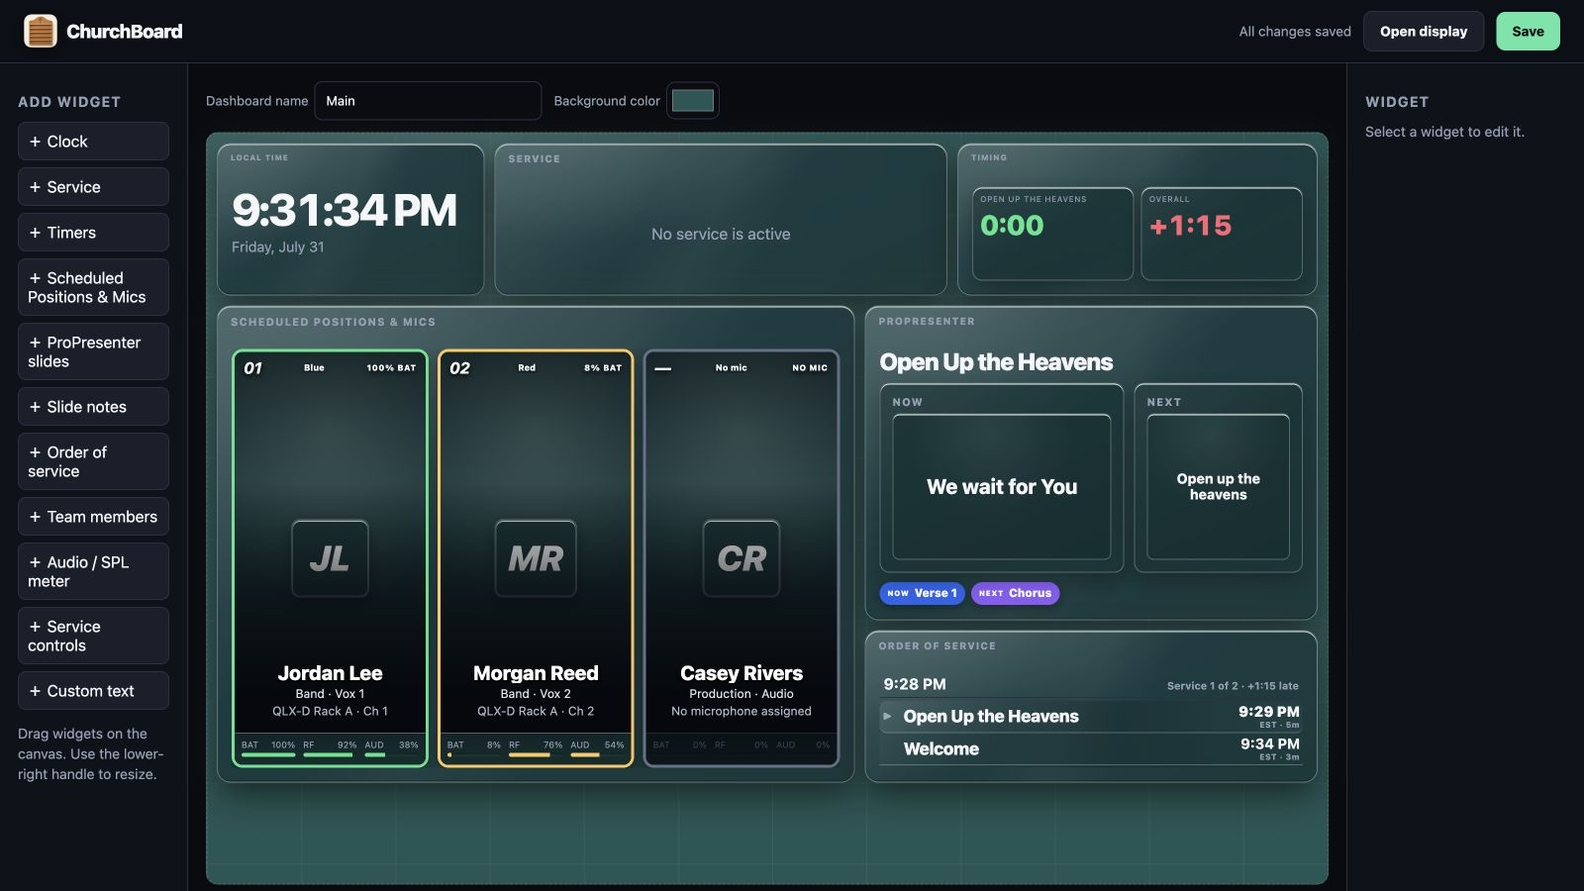
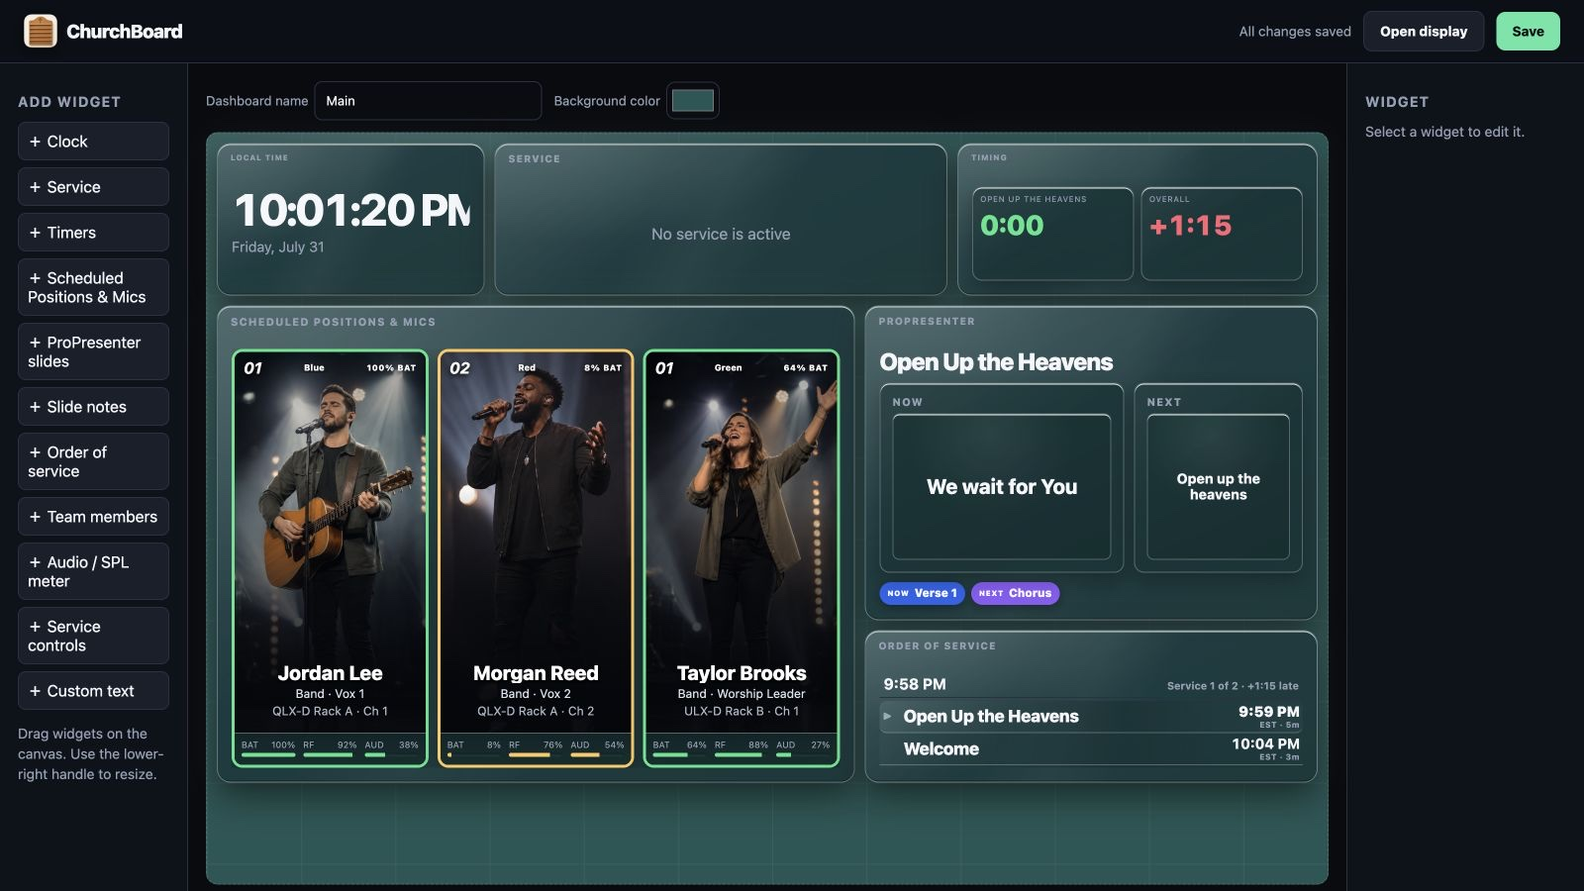
Add demo portraits and release legal notices

Changed region(s): [[0.125, 0.3733, 0.5312, 0.7156], [0.4062, 0.7467, 0.5312, 0.8711], [0.125, 0.2178, 0.3125, 0.28]]

diff --git a/app/static/editor.js b/app/static/editor.js
@@ -10,7 +10,7 @@ async function load(){
   document.querySelector("#dashboard-name").value=dashboard.name;dashboard.background_color=applyDashboardAppearance(grid,dashboard.background_color);document.querySelector("#dashboard-background-color").value=dashboard.background_color;document.querySelector("#preview-link").href=`/display/${dashboard.slug}`;
   grid.style.setProperty("--columns",dashboard.columns);grid.style.setProperty("--row-height",`${dashboard.row_height}px`);render();
 }
-function previewState(){const people=[{id:"person-1",name:"Jordan Lee",position:"Vox 1",position_key:"band::vox 1",team_id:"band",team_name:"Band",photo:""},{id:"person-2",name:"Morgan Reed",position:"Vox 2",position_key:"band::vox 2",team_id:"band",team_name:"Band",photo:""},{id:"person-3",name:"Casey Rivers",position:"Audio",position_key:"production::audio",team_id:"production",team_name:"Production",photo:""}],items=[{id:"song-1",title:"Open Up the Heavens",length:300,starts_after:0,leader:"Jordan Lee"},{id:"welcome",title:"Welcome",length:180,starts_after:300,leader:"Morgan Reed"},{id:"song-2",title:"Build My Life",length:300,starts_after:480}],serviceStart=new Date(Date.now()-180000).toISOString(),timing={state:"running",current_item:items[0],service_start_at:serviceStart,service_time_id:"preview-time",service_time_index:1,service_time_count:2,service_items:items,overall_delta:75};return{timezone:Intl.DateTimeFormat().resolvedOptions().timeZone,service:{title:"Sunday Worship",dates:"Dashboard preview",starts_at:serviceStart,items},timing,people,mics:[{id:"preview-1",receiver:"QLX-D Rack A",channel:1,name:"Blue",battery_percent:100,rf:92,audio:38,online:true,errors:[],assignment:people[0]},{id:"preview-2",receiver:"QLX-D Rack A",channel:2,name:"Red",battery_percent:8,rf:76,audio:54,online:true,errors:[],assignment:people[1]}],propresenter:{title:"Open Up the Heavens",current:{text:"We wait for You",part:"Verse 1",color:"#2563eb",index:2,total:8},next:{text:"Open up the heavens",part:"Chorus",color:"#8b5cf6",index:3,total:8}}}}
+function previewState(){const people=[{id:"person-1",name:"Jordan Lee",position:"Vox 1",position_key:"band::vox 1",team_id:"band",team_name:"Band",photo:"/static/demo-people/jordan-lee.jpg"},{id:"person-2",name:"Morgan Reed",position:"Vox 2",position_key:"band::vox 2",team_id:"band",team_name:"Band",photo:"/static/demo-people/morgan-reed.jpg"},{id:"person-3",name:"Taylor Brooks",position:"Worship Leader",position_key:"band::worship leader",team_id:"band",team_name:"Band",photo:"/static/demo-people/taylor-brooks.jpg"}],items=[{id:"song-1",title:"Open Up the Heavens",length:300,starts_after:0,leader:"Jordan Lee"},{id:"welcome",title:"Welcome",length:180,starts_after:300,leader:"Morgan Reed"},{id:"song-2",title:"Build My Life",length:300,starts_after:480}],serviceStart=new Date(Date.now()-180000).toISOString(),timing={state:"running",current_item:items[0],service_start_at:serviceStart,service_time_id:"preview-time",service_time_index:1,service_time_count:2,service_items:items,overall_delta:75};return{timezone:Intl.DateTimeFormat().resolvedOptions().timeZone,service:{title:"Sunday Worship",dates:"Dashboard preview",starts_at:serviceStart,items},timing,people,mics:[{id:"preview-1",receiver:"QLX-D Rack A",channel:1,name:"Blue",battery_percent:100,rf:92,audio:38,online:true,errors:[],assignment:people[0]},{id:"preview-2",receiver:"QLX-D Rack A",channel:2,name:"Red",battery_percent:8,rf:76,audio:54,online:true,errors:[],assignment:people[1]},{id:"preview-3",receiver:"ULX-D Rack B",channel:1,name:"Green",battery_percent:64,rf:88,audio:27,online:true,errors:[],assignment:people[2]}],propresenter:{title:"Open Up the Heavens",current:{text:"We wait for You",part:"Verse 1",color:"#2563eb",index:2,total:8},next:{text:"Open up the heavens",part:"Chorus",color:"#8b5cf6",index:3,total:8}}}}
 function render(){
   grid.innerHTML=dashboard.widgets.map(widget=>widgetMarkup(widget,previewState())).join("");
   grid.querySelectorAll(".widget").forEach(element=>{const widget=find(element.dataset.widget);element.classList.toggle("selected",selected===widget.id);element.insertAdjacentHTML("beforeend",'<span class="resize-handle"></span>');element.addEventListener("pointerdown",event=>beginPointer(event,widget,event.target.classList.contains("resize-handle")));element.addEventListener("click",()=>select(widget.id))});tickClocks();enhanceDynamicContent(grid);

diff --git a/packaging/collect_licenses.py b/packaging/collect_licenses.py
@@ -1,0 +1,59 @@
+"""Collect license files for the exact Python distributions in a release build."""
+
+from __future__ import annotations
+
+import importlib.metadata
+import re
+import shutil
+from pathlib import Path
+
+
+PROJECT = Path(__file__).resolve().parents[1]
+OUTPUT = PROJECT / "build" / "legal" / "third-party"
+LICENSE_NAMES = re.compile(r"^(license|licence|copying|notice)([._-].*)?$", re.IGNORECASE)
+
+
+def safe_name(value: str) -> str:
+    return re.sub(r"[^A-Za-z0-9._+-]+", "-", value).strip("-") or "unknown"
+
+
+def collect(output: Path = OUTPUT) -> list[str]:
+    if output.exists():
+        shutil.rmtree(output)
+    output.mkdir(parents=True, exist_ok=True)
+    packages: list[str] = []
+    for distribution in sorted(importlib.metadata.distributions(), key=lambda item: (item.metadata.get("Name") or "").casefold()):
+        name = distribution.metadata.get("Name") or "unknown"
+        version = distribution.version
+        destination = output / f"{safe_name(name)}-{safe_name(version)}"
+        copied = 0
+        for entry in distribution.files or []:
+            parts = [part.casefold() for part in Path(str(entry)).parts]
+            filename = Path(str(entry)).name
+            in_distribution_metadata = any(part.endswith(".dist-info") for part in parts)
+            if not in_distribution_metadata or ("licenses" not in parts and not LICENSE_NAMES.match(filename)):
+                continue
+            source = Path(distribution.locate_file(entry))
+            if not source.is_file():
+                continue
+            destination.mkdir(parents=True, exist_ok=True)
+            target = destination / safe_name("-".join(Path(str(entry)).parts[-3:]))
+            shutil.copy2(source, target)
+            copied += 1
+        expression = distribution.metadata.get("License-Expression") or distribution.metadata.get("License") or "See bundled notice"
+        if copied:
+            (destination / "PACKAGE.txt").write_text(
+                f"Name: {name}\nVersion: {version}\nLicense: {expression}\n",
+                encoding="utf-8",
+            )
+            packages.append(f"- {name} {version} — {expression}")
+    (output / "README.md").write_text(
+        "# Collected dependency licenses\n\nGenerated from the release build environment.\n\n" + "\n".join(packages) + "\n",
+        encoding="utf-8",
+    )
+    return packages
+
+
+if __name__ == "__main__":
+    collected = collect()
+    print(f"Collected license notices for {len(collected)} distributions in {OUTPUT}")

diff --git a/app/services/runtime.py b/app/services/runtime.py
@@ -443,9 +443,9 @@ class RuntimeService:
     @staticmethod
     def demo_state(now: datetime | None = None) -> dict[str, Any]:
         people = [
-            {"id": "1", "name": "Jordan Lee", "position": "Vox 1", "position_key": "band::vox 1", "team_id": "band", "team_name": "Band", "photo": "", "status": "Confirmed"},
-            {"id": "2", "name": "Morgan Reed", "position": "Vox 2", "position_key": "band::vox 2", "team_id": "band", "team_name": "Band", "photo": "", "status": "Confirmed"},
-            {"id": "3", "name": "Taylor Brooks", "position": "Worship Leader", "position_key": "band::worship leader", "team_id": "band", "team_name": "Band", "photo": "", "status": "Confirmed"},
+            {"id": "1", "name": "Jordan Lee", "position": "Vox 1", "position_key": "band::vox 1", "team_id": "band", "team_name": "Band", "photo": "/static/demo-people/jordan-lee.jpg", "status": "Confirmed"},
+            {"id": "2", "name": "Morgan Reed", "position": "Vox 2", "position_key": "band::vox 2", "team_id": "band", "team_name": "Band", "photo": "/static/demo-people/morgan-reed.jpg", "status": "Confirmed"},
+            {"id": "3", "name": "Taylor Brooks", "position": "Worship Leader", "position_key": "band::worship leader", "team_id": "band", "team_name": "Band", "photo": "/static/demo-people/taylor-brooks.jpg", "status": "Confirmed"},
         ]
         items = [
             {"id": "1", "title": "Welcome", "length": 180, "starts_after": 0, "notes": [], "leader": "Morgan Reed"},

diff --git a/tests/test_legal.py b/tests/test_legal.py
@@ -1,0 +1,29 @@
+from __future__ import annotations
+
+import importlib.util
+import tempfile
+import unittest
+from pathlib import Path
+
+
+PROJECT = Path(__file__).resolve().parents[1]
+
+
+class LegalPackagingTests(unittest.TestCase):
+    def test_dependency_license_collector_only_copies_notice_files(self):
+        spec = importlib.util.spec_from_file_location(
+            "churchboard_collect_licenses",
+            PROJECT / "packaging" / "collect_licenses.py",
+        )
+        module = importlib.util.module_from_spec(spec)
+        assert spec.loader is not None
+        spec.loader.exec_module(module)
+
+        with tempfile.TemporaryDirectory() as directory:
+            output = Path(directory) / "third-party"
+            packages = module.collect(output)
+            self.assertTrue(packages)
+            self.assertTrue((output / "README.md").is_file())
+            self.assertTrue(any(path.name == "PACKAGE.txt" for path in output.rglob("PACKAGE.txt")))
+            forbidden = {".py", ".pyc", ".so", ".dylib", ".dll", ".exe"}
+            self.assertFalse([path for path in output.rglob("*") if path.is_file() and path.suffix.casefold() in forbidden])

diff --git a/tests/test_api.py b/tests/test_api.py
@@ -85,6 +85,11 @@ class ApiTests(unittest.TestCase):
     def test_runtime_and_manual_service_selection(self):
         runtime = self.client.get("/api/runtime").json()
         self.assertEqual(runtime["service"]["id"], "demo")
+        self.assertTrue(all(person["photo"].startswith("/static/demo-people/") for person in runtime["people"]))
+        for filename in ("jordan-lee.jpg", "morgan-reed.jpg", "taylor-brooks.jpg"):
+            photo = self.client.get(f"/static/demo-people/{filename}")
+            self.assertEqual(photo.status_code, 200)
+            self.assertEqual(photo.headers["content-type"], "image/jpeg")
         response = self.client.put("/api/active-plan", json={"id": "demo", "service_type_id": "demo"})
         self.assertEqual(response.status_code, 200)
         self.assertEqual(response.json()["manual_plan"]["id"], "demo")

diff --git a/app/version.py b/app/version.py
@@ -1,3 +1,3 @@
 """ChurchBoard release version."""
 
-__version__ = "0.1.9"
+__version__ = "0.1.10"

diff --git a/README.md b/README.md
@@ -32,17 +32,17 @@ Choose your computer and click its download link:
 
 | Your computer | Download |
 | --- | --- |
-| **Windows 10 or 11** | **[Download the Windows installer (.exe)](https://github.com/wtapper89/ChurchBoard/releases/latest/download/ChurchBoard-0.1.9-Windows-x64-Setup.exe)** |
-| **Mac with Apple silicon** — M1, M2, M3, M4, or newer | **[Download the Apple silicon Mac disk image (.dmg)](https://github.com/wtapper89/ChurchBoard/releases/latest/download/ChurchBoard-0.1.9-macOS-arm64.dmg)** |
-| **Mac with an Intel processor** | **[Download the Intel Mac disk image (.dmg)](https://github.com/wtapper89/ChurchBoard/releases/latest/download/ChurchBoard-0.1.9-macOS-x86_64.dmg)** |
-| **Ubuntu or Debian Linux** | **[Download the Linux installer (.deb)](https://github.com/wtapper89/ChurchBoard/releases/latest/download/ChurchBoard-0.1.9-Linux-amd64.deb)** |
-| **Other 64-bit desktop Linux** | **[Download the portable Linux package (.tar.gz)](https://github.com/wtapper89/ChurchBoard/releases/latest/download/ChurchBoard-0.1.9-Linux-x86_64.tar.gz)** |
+| **Windows 10 or 11** | **[Download the Windows installer (.exe)](https://github.com/wtapper89/ChurchBoard/releases/latest/download/ChurchBoard-0.1.10-Windows-x64-Setup.exe)** |
+| **Mac with Apple silicon** — M1, M2, M3, M4, or newer | **[Download the Apple silicon Mac disk image (.dmg)](https://github.com/wtapper89/ChurchBoard/releases/latest/download/ChurchBoard-0.1.10-macOS-arm64.dmg)** |
+| **Mac with an Intel processor** | **[Download the Intel Mac disk image (.dmg)](https://github.com/wtapper89/ChurchBoard/releases/latest/download/ChurchBoard-0.1.10-macOS-x86_64.dmg)** |
+| **Ubuntu or Debian Linux** | **[Download the Linux installer (.deb)](https://github.com/wtapper89/ChurchBoard/releases/latest/download/ChurchBoard-0.1.10-Linux-amd64.deb)** |
+| **Other 64-bit desktop Linux** | **[Download the portable Linux package (.tar.gz)](https://github.com/wtapper89/ChurchBoard/releases/latest/download/ChurchBoard-0.1.10-Linux-x86_64.tar.gz)** |
 
 Not sure which Mac you have? Choose **Apple menu → About This Mac**. If it says **Chip**, use Apple silicon. If it says **Processor**, use Intel.
 
 **Raspberry Pi:** jump to the [one-command Raspberry Pi installer](#raspberry-pi).
 
-[View all v0.1.9 downloads and release notes](https://github.com/wtapper89/ChurchBoard/releases/tag/v0.1.9)
+[View all v0.1.10 downloads and release notes](https://github.com/wtapper89/ChurchBoard/releases/tag/v0.1.10)
 
 ## Install
 
@@ -79,6 +79,14 @@ See [Configuration](docs/CONFIGURATION.md) for Planning Center personal-access-t
 Each dashboard has a stable URL. Add widgets from the palette, drag and resize them on the canvas, then configure the selected widget in the inspector. Text, cards, photos, and status displays scale with their widget. The display hamburger includes an **Edit** action beside every board, and **Open display** in the editor reuses the current tab.
 
 ![ChurchBoard WYSIWYG dashboard editor](docs/screenshots/dashboard-editor.jpg)
+
+## Credits, licenses, and legal
+
+ChurchBoard's visual microphone-monitoring direction was inspired by [Micboard](https://micboard.io/) by Karl Swanson, an independent MIT-licensed project for network-enabled Shure devices. The initial cross-platform dashboard concept also drew inspiration from [NewsTalentMonitorPlus](https://github.com/wtapper89/NewsTalentMonitorPlus). ChurchBoard is a separate implementation and does not bundle either project's code or assets.
+
+The people shown in demonstration mode and documentation are AI-generated fictional samples, not real team members. ChurchBoard is independently developed and is not affiliated with or endorsed by Planning Center, Shure, Renewed Vision/ProPresenter, Micboard, Apple, Microsoft, or Raspberry Pi.
+
+See the [MIT License](LICENSE), [legal and trademark notices](LEGAL.md), [third-party dependency notices](THIRD_PARTY_NOTICES.md), and [security guidance](SECURITY.md).
 
 ## Local development
 

diff --git a/LEGAL.md b/LEGAL.md
@@ -1,0 +1,33 @@
+# ChurchBoard legal information
+
+This document is a practical project notice, not legal advice.
+
+## License and ownership
+
+ChurchBoard is distributed under the [MIT License](LICENSE). Third-party components retain their own licenses and copyright notices; see [Third-party notices](THIRD_PARTY_NOTICES.md).
+
+The bundled demonstration portraits are AI-generated fictional sample people supplied by the project owner. They do not depict the named sample people or any intended real individual. They are included under the ChurchBoard project license for demonstration and documentation use.
+
+## Credits and independence
+
+ChurchBoard's visual microphone-monitoring direction was inspired by [Micboard](https://micboard.io/) by Karl Swanson. Micboard is an independent MIT-licensed project for visually monitoring network-enabled Shure devices. ChurchBoard is a separate implementation and does not bundle Micboard code or assets.
+
+The initial cross-platform dashboard concept also drew inspiration from [NewsTalentMonitorPlus](https://github.com/wtapper89/NewsTalentMonitorPlus), an MIT-licensed project.
+
+## Trademarks and third-party services
+
+ChurchBoard is an independent project. It is not affiliated with, authorized by, sponsored by, or endorsed by Planning Center, Shure, Renewed Vision, ProPresenter, Micboard, Apple, Microsoft, or the Raspberry Pi Foundation.
+
+Planning Center, Shure, QLX-D, ULX-D, Renewed Vision, ProPresenter, Apple, macOS, Mac, Microsoft, Windows, and Raspberry Pi are trademarks or registered trademarks of their respective owners. Their names are used only to identify compatible products or services.
+
+Use of third-party APIs, devices, accounts, media, and services remains subject to the applicable owner's terms, licenses, privacy policies, permissions, and rate limits. Users are responsible for obtaining permission to display Planning Center profile photos or other personal data on ChurchBoard screens.
+
+## Privacy and network exposure
+
+ChurchBoard processes Planning Center credentials, schedule data, names, and photos locally on the ChurchBoard computer. It does not provide its own cloud service. The local dashboard server currently has no built-in authentication or TLS; follow [SECURITY.md](SECURITY.md) and keep it on a trusted, access-controlled production network.
+
+## Operational and SPL limitations
+
+Mic telemetry, service timing, slide matching, and control status are informational. Confirm critical production actions in the manufacturers' or service providers' official interfaces. Do not use ChurchBoard as the sole indication for safety-critical, emergency, hearing-protection, or regulatory decisions.
+
+The browser Audio/SPL widget is an approximate production reference whose response varies by microphone, interface, operating system, browser, placement, and calibration. It is not a certified sound-level meter or noise dosimeter and is not intended for regulatory compliance. Use a properly calibrated, standards-compliant instrument and qualified guidance for occupational or hearing-safety measurements.

diff --git a/docs/INSTALLATION.md b/docs/INSTALLATION.md
@@ -6,13 +6,13 @@ ChurchBoard runs a small local web server and displays its interface in a browse
 
 | Platform | Installer |
 | --- | --- |
-| Windows 10 or 11 | **[Download for Windows (.exe)](https://github.com/wtapper89/ChurchBoard/releases/latest/download/ChurchBoard-0.1.9-Windows-x64-Setup.exe)** |
-| Apple silicon Mac — M1, M2, M3, M4, or newer | **[Download for Apple silicon Mac (.dmg)](https://github.com/wtapper89/ChurchBoard/releases/latest/download/ChurchBoard-0.1.9-macOS-arm64.dmg)** |
-| Intel Mac | **[Download for Intel Mac (.dmg)](https://github.com/wtapper89/ChurchBoard/releases/latest/download/ChurchBoard-0.1.9-macOS-x86_64.dmg)** |
-| Ubuntu or Debian Linux | **[Download for Linux (.deb)](https://github.com/wtapper89/ChurchBoard/releases/latest/download/ChurchBoard-0.1.9-Linux-amd64.deb)** |
-| Other 64-bit Linux | **[Download the portable Linux package (.tar.gz)](https://github.com/wtapper89/ChurchBoard/releases/latest/download/ChurchBoard-0.1.9-Linux-x86_64.tar.gz)** |
+| Windows 10 or 11 | **[Download for Windows (.exe)](https://github.com/wtapper89/ChurchBoard/releases/latest/download/ChurchBoard-0.1.10-Windows-x64-Setup.exe)** |
+| Apple silicon Mac — M1, M2, M3, M4, or newer | **[Download for Apple silicon Mac (.dmg)](https://github.com/wtapper89/ChurchBoard/releases/latest/download/ChurchBoard-0.1.10-macOS-arm64.dmg)** |
+| Intel Mac | **[Download for Intel Mac (.dmg)](https://github.com/wtapper89/ChurchBoard/releases/latest/download/ChurchBoard-0.1.10-macOS-x86_64.dmg)** |
+| Ubuntu or Debian Linux | **[Download for Linux (.deb)](https://github.com/wtapper89/ChurchBoard/releases/latest/download/ChurchBoard-0.1.10-Linux-amd64.deb)** |
+| Other 64-bit Linux | **[Download the portable Linux package (.tar.gz)](https://github.com/wtapper89/ChurchBoard/releases/latest/download/ChurchBoard-0.1.10-Linux-x86_64.tar.gz)** |
 
-[See every v0.1.9 download](https://github.com/wtapper89/ChurchBoard/releases/tag/v0.1.9)
+[See every v0.1.10 download](https://github.com/wtapper89/ChurchBoard/releases/tag/v0.1.10)
 
 When the repository is private, sign in to the GitHub account that has access before downloading. The links work normally without sign-in after the repository is public.
 
@@ -31,7 +31,7 @@ http://CHURCHBOARD-COMPUTER-IP:8040/display/main
 ## Windows 10 and 11
 
 1. Use the **Download for Windows** link above.
-2. Open `ChurchBoard-0.1.9-Windows-x64-Setup.exe`.
+2. Open `ChurchBoard-0.1.10-Windows-x64-Setup.exe`.
 3. Run the installer. Leave **Start ChurchBoard automatically when I sign in** checked.
 4. When Windows Firewall asks, allow ChurchBoard on **Private networks** if displays on other production computers need to connect.
 5. ChurchBoard starts and opens its desktop control page.

diff --git a/THIRD_PARTY_NOTICES.md b/THIRD_PARTY_NOTICES.md
@@ -1,0 +1,27 @@
+# Third-party notices
+
+ChurchBoard depends on open-source software. Each dependency remains governed by its own license. Release builds run `packaging/collect_licenses.py` after installing dependencies and include the exact available license and notice files for the versions shipped in that build.
+
+Core runtime components include:
+
+| Component | License | Project |
+| --- | --- | --- |
+| FastAPI | MIT | https://github.com/fastapi/fastapi |
+| Starlette | BSD-3-Clause | https://github.com/Kludex/starlette |
+| Pydantic and pydantic-core | MIT | https://github.com/pydantic/pydantic |
+| HTTPX and HTTPCore | BSD-3-Clause | https://github.com/encode/httpx |
+| Uvicorn | BSD-3-Clause | https://github.com/Kludex/uvicorn |
+| Pillow | MIT-CMU | https://python-pillow.github.io/ |
+| pystray | LGPL-3.0 | https://github.com/moses-palmer/pystray |
+| AnyIO | MIT | https://github.com/agronholm/anyio |
+| Click | BSD-3-Clause | https://github.com/pallets/click |
+| h11 | MIT | https://github.com/python-hyper/h11 |
+| httptools | MIT and bundled upstream licenses | https://github.com/MagicStack/httptools |
+| watchfiles | MIT | https://github.com/samuelcolvin/watchfiles |
+| websockets | BSD-3-Clause | https://github.com/python-websockets/websockets |
+| python-dotenv | BSD-3-Clause | https://github.com/theskumar/python-dotenv |
+| PyYAML | MIT | https://pyyaml.org/ |
+
+Build and packaging tools include PyInstaller (GPL-2.0-or-later with its exception for distributing bundled applications), dmgbuild (MIT), and Inno Setup under its own license. These tools do not change ChurchBoard's MIT license. Exact notices collected from the Python build environment are placed in `legal/third-party` inside packaged builds; Windows and Linux installers also install them as readable files beside the application or under the platform documentation directory.
+
+Micboard and NewsTalentMonitorPlus are credited inspirations, not bundled dependencies. See [ChurchBoard legal information](LEGAL.md).

diff --git a/docs/CONFIGURATION.md b/docs/CONFIGURATION.md
@@ -97,7 +97,7 @@ Add a **Team members** widget, select Planning Center teams/categories, then cho
 
 ## 8. Use a custom unassigned icon
 
-A Scheduled Positions & Mics widget can replace the default `U` placeholder with media stored in the active Planning Center plan.
+A Scheduled Positions & Mics widget uses a one-color ChurchBoard mark for an unassigned position by default. It can replace that mark with media stored in the active Planning Center plan.
 
 1. Add a PNG or JPEG as a Planning Center plan media item.
 2. Give the media item a recognizable title, such as `Icon`.
@@ -111,7 +111,7 @@ The title is configurable per widget, so different dashboards can use different 
 
 Add an **Audio / SPL meter** widget and set the green, orange, and red thresholds. Choose **Enable microphone** from the display and grant the browser microphone permission. The permission button remains available at the widget's smallest size.
 
-Browser microphone readings are useful as a production reference but are not a substitute for a calibrated, standards-compliant SPL meter. Calibration varies by computer, interface, browser, and microphone.
+Browser microphone readings are useful as a production reference but are not a substitute for a calibrated, standards-compliant SPL meter or noise dosimeter and must not be used for regulatory compliance. Calibration varies by computer, interface, browser, and microphone. See [legal and operational limitations](../LEGAL.md).
 
 ## 10. Open displays
 

diff --git a/docs/DEVELOPMENT.md b/docs/DEVELOPMENT.md
@@ -64,7 +64,7 @@ This produces a portable `.tar.gz` and a `.deb` for the current architecture.
 
 ## Automated releases
 
-GitHub Actions runs tests on pushes and pull requests. The release workflow can be started manually for test artifacts. Pushing a tag such as `v0.1.9` builds macOS Intel, macOS Apple-silicon, Windows x64, and Linux packages and attaches them to a GitHub Release.
+GitHub Actions runs tests on pushes and pull requests. The release workflow can be started manually for test artifacts. Pushing a tag such as `v0.1.10` builds macOS Intel, macOS Apple-silicon, Windows x64, and Linux packages and attaches them to a GitHub Release.
 
 Before creating a release:
 
@@ -74,8 +74,8 @@ Before creating a release:
 4. Tag the exact commit:
 
    ```bash
-   git tag v0.1.9
-   git push origin v0.1.9
+   git tag v0.1.10
+   git push origin v0.1.10
    ```
 
 ### macOS signing and notarization
